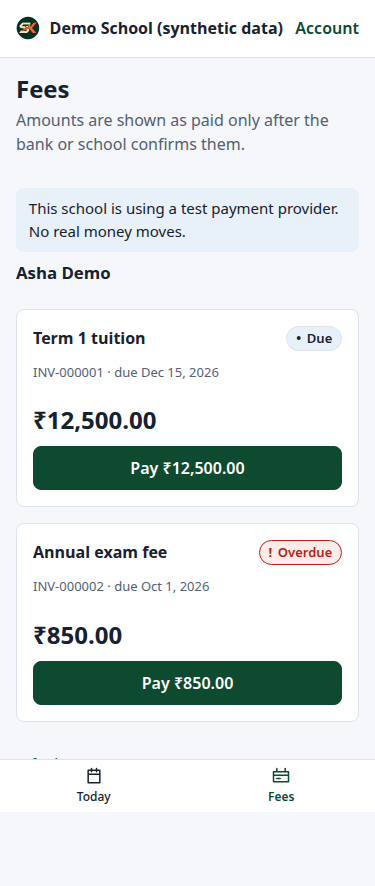
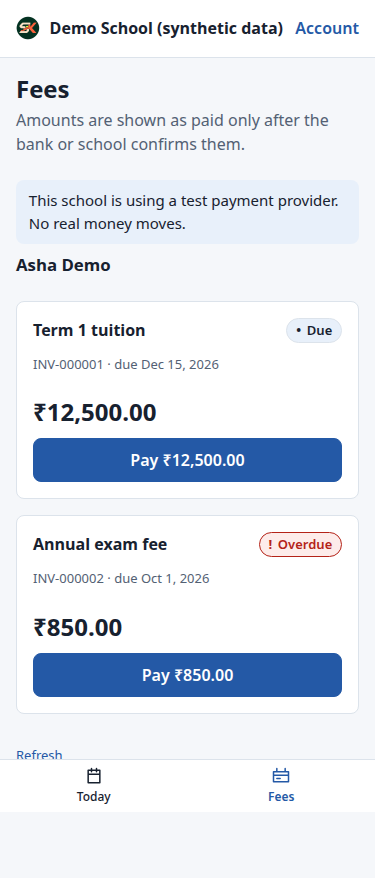
Mobile: stop short pages stretching the top bar; correct palette notes after merge

diff --git a/web/src/styles.css b/web/src/styles.css
@@ -51,7 +51,7 @@ input,select,textarea{font:inherit;font-weight:400;color:var(--ink);background:v
 .seg-ctl button+button{border-left:1px solid var(--line)} .seg-ctl .on{background:var(--brand);color:var(--on-brand);font-weight:600}
 
 /* shell */
-.shell{display:grid;grid-template-columns:15rem 1fr;min-height:100vh}
+.shell{display:grid;grid-template-columns:15rem 1fr;min-height:100vh;align-content:start}
 .side{position:sticky;top:0;height:100vh;display:flex;flex-direction:column;gap:1rem;padding:1rem;background:var(--surface);border-right:1px solid var(--line);overflow-y:auto}
 .app-mark{display:block;flex:none;object-fit:cover;border-radius:50%}
 .inst{display:flex;gap:.6rem;align-items:center;color:var(--brand);margin:0} .inst b{color:var(--ink);line-height:1.2;overflow-wrap:anywhere}

diff --git a/docs/design.md b/docs/design.md
@@ -227,7 +227,7 @@ Treat the table above as the starting design contract, then inspect the actual r
 
 Evidence base: the four referenced files were read; findings are in the repository's `docs/design-alignment.md`. Screenshots at 375/768/1440 px are in `docs/screenshots/` (`fees-*`, `receipt-mobile`, `reconcile-desktop`), produced by `e2e/fees.mjs` with synthetic data.
 
-**Palette.** The app now uses the blue brand tokens (`#2459a6` light, `#8ab4f8` dark) with neutral surfaces, matching section 3; the public marketing site keeps its own forest/parchment/coral identity. Measured contrast (WCAG formula, 2026-11-03): white on `#2459a6` 6.87:1; `#101722` on dark brand `#8ab4f8` is checked in the next audit; `--ok #20734a` on `#e6f4ec` 5.13:1; `--bad #b42318` on `#fdecea` 5.75:1; dark `#6fcf97` on `#16301f` 7.48:1; `#ff9a8f` on `#3a1c19` 7.55:1; ink on canvas 15.11:1. Muted ink and focus ring were not re-measured; a specialist accessibility audit is still pending.
+**Palette.** The app now uses the blue brand tokens (`#2459a6` light, `#8ab4f8` dark) with neutral surfaces, matching section 3; the public marketing site keeps its own forest/parchment/coral identity. Measured contrast (WCAG formula, 2026-11-03): white on `#2459a6` 6.87:1; `#101722` on dark brand `#8ab4f8` 8.53:1; `--ok #20734a` on `#e6f4ec` 5.13:1; `--bad #b42318` on `#fdecea` 5.75:1; dark `#6fcf97` on `#16301f` 7.48:1; `#ff9a8f` on `#3a1c19` 7.55:1; ink on canvas 15.11:1. Muted ink and focus ring were not re-measured; a specialist accessibility audit is still pending.
 
 **Logo.** Supplied PNG only (`/app/icon-192.png`, round, `border-radius:50%`). The earlier inline SVG mark in the shell was removed (upstream commit e81945e).
 
